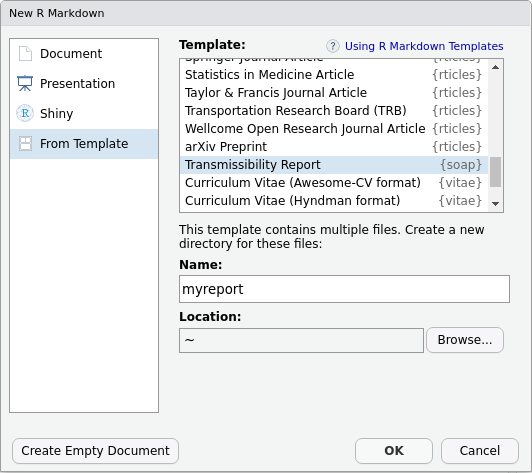
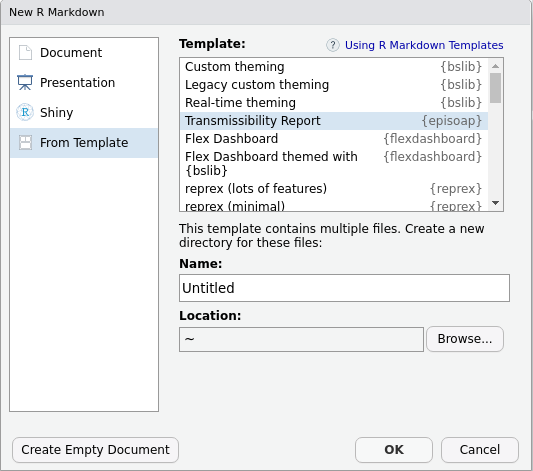
Rename package to episoap

diff --git a/README.md b/README.md
@@ -1,11 +1,11 @@
 
 <!-- README.md is generated from README.Rmd. Please edit that file -->
 
-# soap: A Store of Outbreak Analytics Pipelines
+# episoap: A Store of Outbreak Analytics Pipelines
 
 <!-- badges: start -->
 
-[![R-CMD-check](https://github.com/epiverse-trace/data_pipelines/actions/workflows/R-CMD-check.yaml/badge.svg)](https://github.com/epiverse-trace/data_pipelines/actions/workflows/R-CMD-check.yaml)
+[![R-CMD-check](https://github.com/epiverse-trace/episoap/actions/workflows/R-CMD-check.yaml/badge.svg)](https://github.com/epiverse-trace/data_pipelines/actions/workflows/R-CMD-check.yaml)
 [![Codecov test
 coverage](https://codecov.io/gh/epiverse-trace/data_pipelines/branch/main/graph/badge.svg)](https://app.codecov.io/gh/epiverse-trace/data_pipelines?branch=main)
 [![Lifecycle:
@@ -28,7 +28,7 @@ You can install the development version of soap from
 
 ``` r
 # install.packages("devtools")
-devtools::install_github("epiverse-trace/data_pipelines")
+devtools::install_github("epiverse-trace/episoap")
 ```
 
 ## Usage
@@ -43,13 +43,13 @@ RStudio](man/figures/template_rstudio.png)
 or by running:
 
 ``` r
-rmarkdown::draft(file = "myreport.Rmd", template = "transmissibility-report", package = "soap")
+rmarkdown::draft(file = "myreport.Rmd", template = "transmissibility-report", package = "episoap")
 ```
 
 To get a list of the template reports available in this package, you can
 run:
 
 ``` r
-soap::list_templates()
+episoap::list_templates()
 #> [1] "transmissibility-report"
 ```

diff --git a/LICENSE.md b/LICENSE.md
@@ -1,6 +1,6 @@
 # MIT License
 
-Copyright (c) 2022 soap authors
+Copyright (c) 2022 episoap authors
 
 Permission is hereby granted, free of charge, to any person obtaining a copy
 of this software and associated documentation files (the "Software"), to deal
